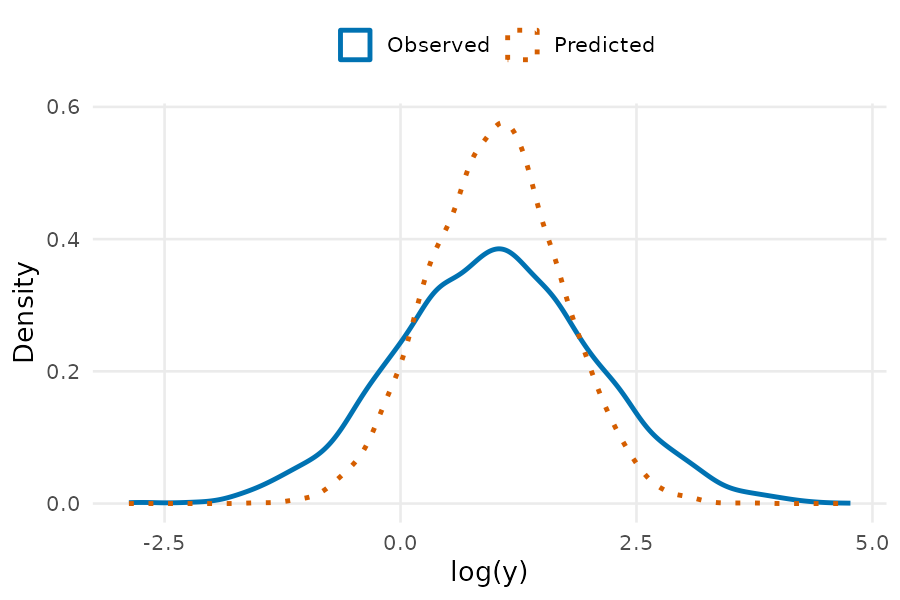
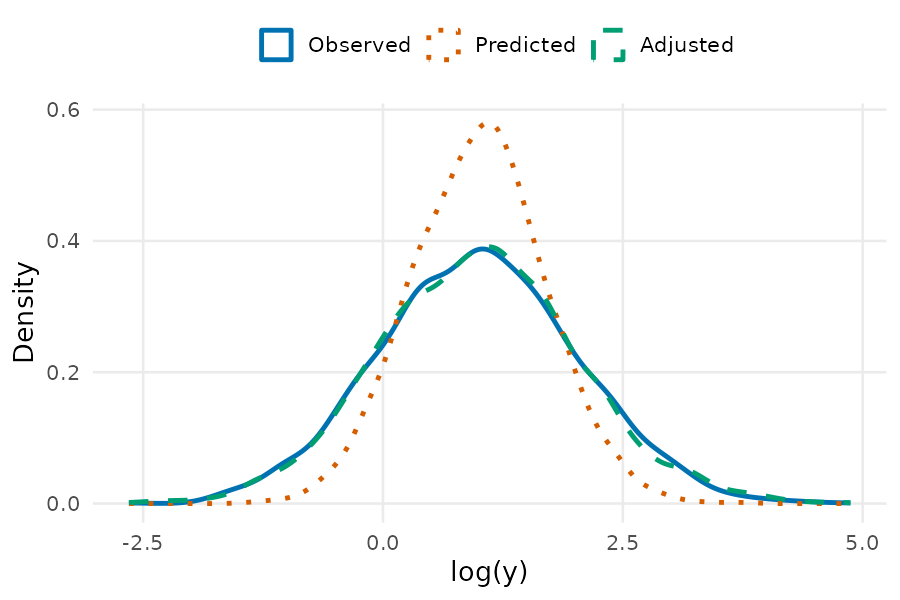
Improved README

diff --git a/README.md b/README.md
@@ -6,33 +6,39 @@ via quantile adjustment, implementing the method described in Torres-Lopez,
 
 ## What the method does
 
-Suppose you want to study the relationship between income (`y`) and some
-other variable (`z`) — consumption, wealth, parental income — but no single
-survey observes both. You have a **donor** sample with `y` and some
-predictors `X`, and a **target** sample with `z` and the same `X`, but never
-`y` and `z` together. The standard fix is to fit a model for `y` on `X` in
-the donor sample and use it to impute `y` in the target sample.
+Suppose you want to study the relationship between income ($y$) and another
+variable ($z$), such as consumption, wealth, or parental income, but no
+single survey observes both. A donor sample has $y$ and predictors $X$; a
+target sample has $z$ and the same $X$, but never $y$ and $z$ together. The
+standard approach fits a model for $y$ on $X$ in the donor sample and uses
+it to impute $y$ in the target sample.
 
-That imputation is biased in two ways:
+That imputation carries two distinct biases. Because the prediction
+$\hat y$ is a conditional expectation, its variance is mechanically smaller
+than the true variance of $y$:
 
-- **Variance bias**: predicted values are a conditional mean, so they're
-  mechanically less spread out than the real `y` — the imputed distribution
-  is too compressed.
-- **Covariance bias**: whatever part of `y` isn't explained by `X` is lost
-  entirely, so the imputed values understate (or distort) their true
-  relationship with `z`.
+$$\text{Var}(\hat y) = R^2 \cdot \text{Var}(y)$$
 
-Simply rescaling the variance (stochastic augmentation) fixes the first
-problem but not the second. **Quantile adjustment** fixes both at once: it
-shifts each imputed value by the gap between the *observed* and *predicted*
-quantile functions at that value's rank, `eta(p) = Q_y(p) - Q_yhat(p)`. This
-exactly restores the full donor distribution, and — because the correction
-tracks each observation's position in the predicted-income ranking — it can
-also shift the imputed covariance with `z` back toward the truth.
+so the imputed distribution ends up compressed relative to the truth. At
+the same time, whatever part of $y$ is not explained by $X$ is dropped
+entirely from the imputation, which biases its covariance with $z$ as well:
 
-Whether it helps or hurts depends on how well the chosen predictors align
-with both `y` and `z`; `qa_diagnose()` (below) is built to help decide that
-before you run the adjustment.
+$$\text{Cov}(y, z) = \text{Cov}(\hat y, z) + \text{Cov}(\varepsilon, z)$$
+
+only the first term on the right is ever recovered. Rescaling the variance
+(stochastic augmentation) fixes the first problem but not the second.
+Quantile adjustment fixes both by shifting each imputed value according to
+the gap between the observed and predicted quantile functions at that
+value's rank:
+
+$$\eta(p) = Q_y(p) - Q_{\hat y}(p)$$
+
+This restores the full donor distribution exactly, and because the
+correction tracks each observation's position in the predicted-income
+ranking, it can also shift the imputed covariance with $z$ toward the
+truth. Whether it helps or hurts depends on how well the chosen predictors
+align with both $y$ and $z$. `qa_diagnose()`, below, checks that before you
+run the adjustment.
 
 ## Installation
 
@@ -59,24 +65,29 @@ target <- data.frame(X = X[2501:5000])
 result <- qa_fit(donor, target, y_var = "y", x_vars = "X", outcome_scale = "log",
                   plotting = TRUE, annotate_p = 0.9)
 
+head(result$y_adjusted)
+#> [1]  0.867  7.353  0.831  1.082 10.041  1.187
+
 result$eta_plot
 ```
 
+<p align="center">
 <img src="man/figures/README-eta-plot.png" width="600"/>
+</p>
 
 `result$y_adjusted` holds the corrected imputed values for the target
-sample; `result$eta_plot` shows the estimated quantile-gap function
-`eta(p)` that produced them — the raw grid estimates as points, the
-smoothed curve used internally, and (since `annotate_p = 0.9`) the exact
+sample. `result$eta_plot` (above) shows the quantile-gap function
+$\hat\eta(p)$ that produced them: the raw grid estimates as points, the
+smoothed curve used internally, and, since `annotate_p = 0.9`, the exact
 adjustment applied at the 90th percentile.
 
 ### 2. Choose predictors and check the regime with `qa_diagnose()`
 
-Adding a predictor doesn't always help: one that predicts `z` well but adds
-little to predicting `y` can inflate the correction beyond what's actually
+Adding a predictor doesn't always help: one that predicts $z$ well but adds
+little to predicting $y$ can inflate the correction beyond what's
 justified. `qa_diagnose()` screens candidate predictors against this
-failure mode via bootstrap, then searches the survivors for the
-best-fitting specification:
+failure mode by bootstrap, then searches the survivors for the
+best-fitting specification.
 
 ```r
 set.seed(7)
@@ -92,64 +103,124 @@ target2 <- data.frame(X1 = X1[5001:10000], X2 = X2[5001:10000], X3 = X3[5001:100
                        z1 = z1[5001:10000], z2 = z2[5001:10000])
 
 diagnosis <- qa_diagnose(donor2, target2, y_var = "y", z_vars = c("z1", "z2"),
-                          x_vars = c("X1", "X2", "X3"), plotting = TRUE)
+                          x_vars = c("X1", "X2", "X3"), B = 30, plotting = TRUE)
+#> ========== Variable Selection ==========
+#>
+#> --- Iteration 1 ---
+#> Variables: X1, X2, X3
+#> Bootstrap progress: 1/30 ... 30/30
+#> Top 5 S_i(z_k) pairs (mean, 95% CI across 30 subsamples):
+#>  predictor z_var       mean_S     ci_lower     ci_upper
+#>         X2    z1 2708.3087955 493.52607164 1.577892e+04
+#>         X3    z2    2.4326821   2.21827069 2.666602e+00
+#>         X2    z2    2.2685998   0.06162247 2.237798e+01
+#>         X1    z2    1.0571185   0.99256450 1.140386e+00
+#>         X1    z1    0.2465681   0.22015387 2.654167e-01
+#>
+#> At least one pair exceeds tau = 10.0: mean S(X2, z1) = 2708.31
+#> Removing 'X2'.
+#>
+#> --- Iteration 2 ---
+#> Variables: X1, X3
+#> Bootstrap progress: 1/30 ... 30/30
+#> Top 4 S_i(z_k) pairs (mean, 95% CI across 30 subsamples):
+#>  predictor z_var      mean_S     ci_lower    ci_upper
+#>         X3    z2 2.464832776 2.223415e+00 2.673477826
+#>         X1    z2 1.053180132 9.681558e-01 1.162441546
+#>         X1    z1 0.234582455 1.969436e-01 0.276808184
+#>         X3    z1 0.001597067 1.488534e-05 0.007081496
+#>
+#> No pair exceeds tau = 10.0. Variable selection converged.
+#> Stage 1 survivors: X1, X3
+#>
+#> ========== Model Selection ==========
+#> Testing 3 candidate specification(s) via 5-fold CV, bootstrapped over 30 subsamples.
+#> Top 3 specifications by mean OOS R^2 (95% CI):
+#>  specification mean_r2_oos  ci_lower  ci_upper
+#>        X1 + X3   0.4402889 0.4204332 0.4566970
+#>             X1   0.3049040 0.2852253 0.3223067
+#>             X3   0.1217892 0.1099342 0.1365723
+#>
+#> Selected model: X1, X3 (mean OOS R^2 = 0.4403, 95% CI [0.4204, 0.4567])
+#>
+#> rho*:
+#>     z1     z2
+#> 0.1072 0.6396
 
 diagnosis$S_plot
 ```
 
+<p align="center">
 <img src="man/figures/README-s-plot.png" width="600"/>
+</p>
 
-`X2` gets screened out (it inflates the correction for `z1` far more than
-it improves the fit for `y`), leaving `X1` and `X3` — both comfortably
-under the screening thresholds shown as dashed lines. `diagnosis$rho_star`
-then reports, for each `z`, the residual correlation at which the
-adjustment would exactly recover the true covariance — a diagnostic for
-whether you're likely under-correcting, over-correcting, or moving in the
-wrong direction entirely.
+`X2` gets screened out: it inflates the correction for `z1` far more than
+it improves the fit for `y`. `X1` and `X3` survive, both comfortably under
+the screening thresholds shown as dashed lines. `diagnosis$rho_star`
+reports, for each `z`, the residual correlation at which the adjustment
+would exactly recover the true covariance.
 
 ### 3. Refit explicitly on the selected predictors
 
-`qa_diagnose()` tells you *which* predictors to use; running `qa_fit()`
-again explicitly on `diagnosis$selected_predictors` gives you both a fresh
-`eta_plot` for that final specification and a fitted model. The donor
-sample is the only place we can actually check the first stage's
-predictions against reality — `y` is never observed in the target sample,
-in a real application or in this simulation:
+`qa_diagnose()` tells you which predictors to use. The donor sample is the
+only place we can check the first stage's predictions against reality
+directly, since $y$ is never observed in the target sample, so this refit
+splits the donor sample itself into a training half and a held-out half:
 
 ```r
-final_fit <- qa_fit(donor2, target2, y_var = "y",
+donor_train   <- donor2[1:2500, ]
+donor_holdout <- donor2[2501:5000, ]
+
+final_fit <- qa_fit(donor_train, donor_holdout, y_var = "y",
                      x_vars = diagnosis$selected_predictors,
                      outcome_scale = "log", plotting = TRUE, annotate_p = 0.9)
 
 final_fit$eta_plot
 ```
 
+<p align="center">
 <img src="man/figures/README-eta-plot-final.png" width="600"/>
+</p>
+
+`final_fit` was fit only on `donor_train`, then applied to `donor_holdout`
+as if it were the target sample. Because `donor_holdout` is still donor
+data, its true `y` is known, which makes it possible to compare three
+things directly: the observed values, the raw (uncorrected) predictions,
+and the quantile-adjusted predictions.
 
 ```r
-observed_log_y  <- log(donor2$y)
-predicted_log_y <- observed_log_y - final_fit$donor_resid   # donor_resid = y_model - y_hat_d
+observed_log_y  <- log(donor_holdout$y)
+predicted_log_y <- final_fit$y_hat_target       # already on the log scale
+adjusted_log_y  <- log(final_fit$y_adjusted)    # y_adjusted is on the level scale
+
+round(c(observed = var(observed_log_y), predicted = var(predicted_log_y),
+        adjusted = var(adjusted_log_y)), 3)
+#> observed predicted  adjusted
+#>    1.071     0.486     1.090
 
 density_df <- data.frame(
-  log_y = c(observed_log_y, predicted_log_y),
-  type  = rep(c("Observed", "Predicted"), each = length(observed_log_y))
+  log_y = c(observed_log_y, predicted_log_y, adjusted_log_y),
+  type  = rep(c("Observed", "Predicted", "Adjusted"), each = length(observed_log_y))
 )
 
 ggplot2::ggplot(density_df, ggplot2::aes(log_y, color = type, linetype = type)) +
   ggplot2::geom_density(linewidth = 1.1) +
-  ggplot2::scale_linetype_manual(values = c(Observed = "solid", Predicted = "dotted"))
+  ggplot2::scale_linetype_manual(values = c(Observed = "solid", Predicted = "dotted",
+                                              Adjusted = "dashed"))
 ```
 
+<p align="center">
 <img src="man/figures/README-density-plot.png" width="600"/>
+</p>
 
-The predicted distribution is visibly more peaked and thinner-tailed than
-the observed one — the variance bias the whole method is built to correct.
-`qa_fit()`'s quantile adjustment (Section 1) is exactly what fixes this:
-`result$y_adjusted` restores the full observed shape rather than just
-rescaling the variance.
+The raw predicted distribution is visibly more peaked and thinner-tailed
+than the observed one: that gap is the variance bias described above. The
+adjusted distribution sits almost exactly on top of the observed one,
+recovering both its variance and its shape, on data the adjustment never
+saw during fitting.
 
 See `?qa_fit` and `?qa_diagnose` for full argument documentation.
 
 ## License
 
-MIT © Pedro Torres-Lopez
+MIT © Pedro J. Torres-Lopez

diff --git a/LICENSE.md b/LICENSE.md
@@ -1,6 +1,6 @@
 # MIT License
 
-Copyright (c) 2026 Pedro Torres-Lopez
+Copyright (c) 2026 Pedro J. Torres-Lopez
 
 Permission is hereby granted, free of charge, to any person obtaining a copy
 of this software and associated documentation files (the "Software"), to deal
